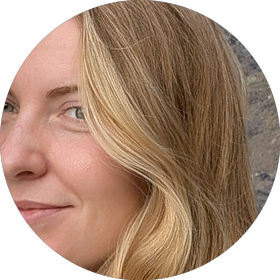
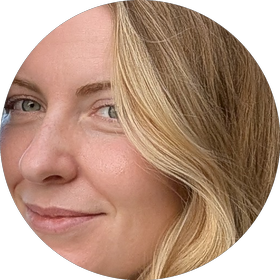
Reorder tree ornaments; re-cut face7 centered on face

diff --git a/index.html b/index.html
@@ -161,7 +161,7 @@ const FACES = 7; // assets/face1..7.png
     [26,232, 56],[50,250, 64],[74,238, 56],
     [40,340, 60],
   ];
-  const order=[0,1,2,3,4,5,6];
+  const order=[4,2,6,0,3,1,5];
   order.forEach((f,idx)=>{
     const s=spots[idx];
     const o=document.createElement('div');

diff --git a/template.html b/template.html
@@ -161,7 +161,7 @@ const FACES = 7; // assets/face1..7.png
     [26,232, 56],[50,250, 64],[74,238, 56],
     [40,340, 60],
   ];
-  const order=[0,1,2,3,4,5,6];
+  const order=[4,2,6,0,3,1,5];
   order.forEach((f,idx)=>{
     const s=spots[idx];
     const o=document.createElement('div');
